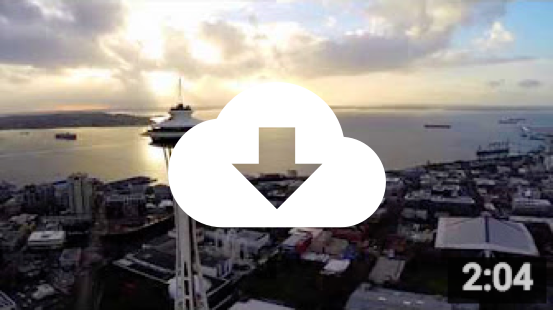
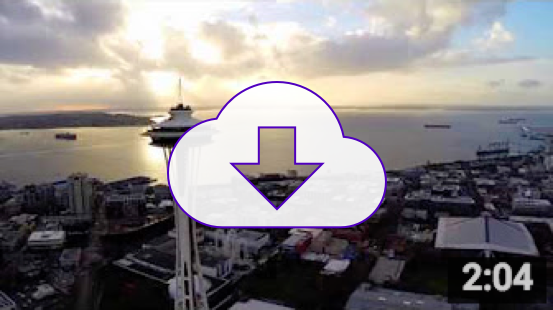
Updated visual aids and how they are displayed

diff --git a/JavaScript/video-search/index.html b/JavaScript/video-search/index.html
@@ -111,7 +111,7 @@
 	</div>
 
 	<!-- RESULTS -->
-	<section class="container" id="results">
+	<section class="container hidden" id="results">
 		<div class="row">
 			<div class="col-md-12">
 				<div class="explanation">
@@ -230,11 +230,12 @@
 						<div class="col-md-12">
 							<p class="lg item-title">2. Split in frames</p>
 						</div>
-						<div class="col-sm-4">
-							<img src="public/images/step02.png">
-						</div>
+
 						<div class="col-sm-8">
 							<p>Once we’ve retrieved the data, we aggregate it by total number of permits issued per month, and plot this data. To make the graph clearer, it sometimes helps to smooth or denoise the data. There are a number of ways to do this, with moving averages being the most popular. The most intuitive is the Simple Moving Average, which replaces each point by the average of itself and some number of the preceding points (default is 3).</p>
+						</div>
+						<div class="col-sm-4">
+							<img src="public/images/step02.png">
 						</div>
 					</li>
 					<li class="row">
@@ -252,11 +253,12 @@
 						<div class="col-md-12">
 							<p class="lg item-title">4. Search tags</p>
 						</div>
-						<div class="col-sm-4">
-							<img src="public/images/step04.png">
-						</div>
+
 						<div class="col-sm-8">
 							<p>Once we’ve retrieved the data, we aggregate it by total number of permits issued per month, and plot this data. To make the graph clearer, it sometimes helps to smooth or denoise the data. There are a number of ways to do this, with moving averages being the most popular. The most intuitive is the Simple Moving Average, which replaces each point by the average of itself and some number of the preceding points (default is 3).</p>
+						</div>
+						<div class="col-sm-4">
+							<img src="public/images/step04.png">
 						</div>
 					</li>
 				</ul>
